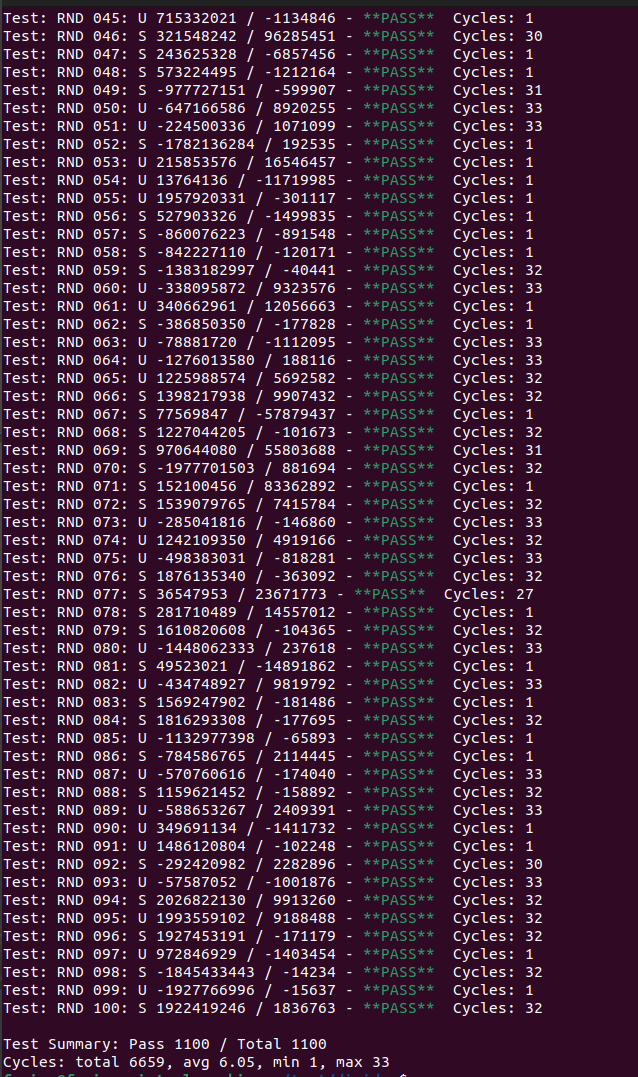
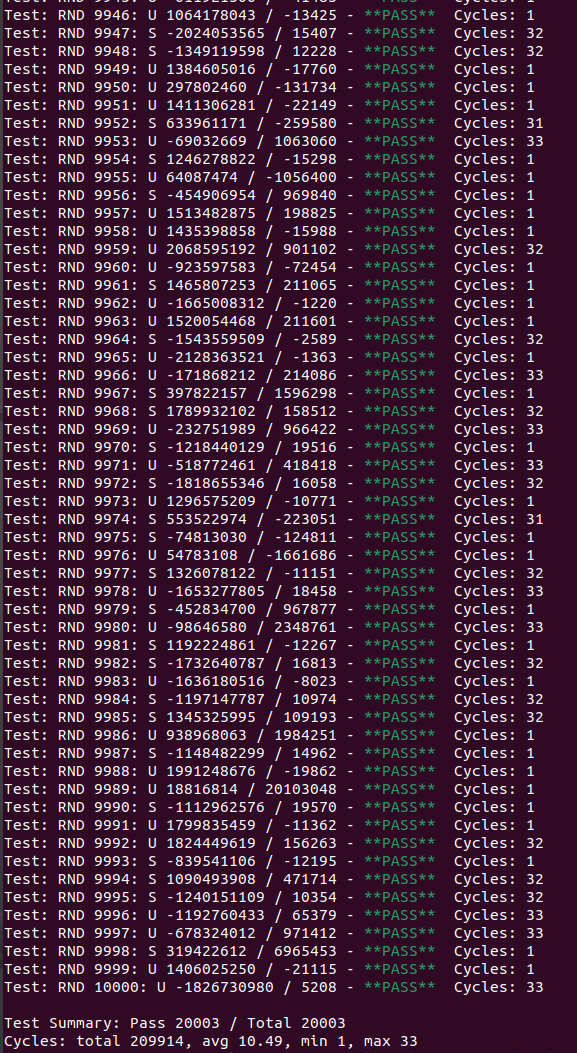
优化除法器，更新早停判断 & 使乘法器可以被综合

diff --git a/npc/oper/divider/divider_main.cpp b/npc/oper/divider/divider_main.cpp
@@ -130,10 +130,15 @@ int main(int argc, char** argv) {
     };
 
     // 插入 1000 个小数字测试，数值上限 200
-    add_small_tests(tests, 1000, 200);
+    add_small_tests(tests, 10000, 200);
+
+    // 添加特殊测试用例，验证有符号除法的边界和符号处理
+    tests.push_back({INT32_MIN, -1, true, INT32_MIN, 0, false, "SPECIAL: S INT32_MIN / -1 (overflow)"});
+    tests.push_back({INT32_MIN, 1,  true, INT32_MIN, 0, true,  "SPECIAL: S INT32_MIN / 1"});
+    tests.push_back({100, 0,    true, -1, 100, false, "SPECIAL: S 100 / 0 (div by zero)"});
 
     // Add random full-range test cases(大数测试)
-    for (int i = 0; i < 1000; ++i) {
+    for (int i = 0; i < 10000; ++i) {
         int32_t a = (std::rand() << 16) | (std::rand() & 0xFFFF);
         int32_t b;
         do {

diff --git a/npc/oper/divider/README.md b/npc/oper/divider/README.md
@@ -8,8 +8,14 @@
 
 从上可看出小数除法计算平均需要6周期左右
 
+**特殊除法计算测试（溢出、除零）**
+
+![](doc/special-divider-test.png)
+
 **大数除法计算测试：**
 
-![](doc/big-divider-test1.png)
+![](doc/big-divider-test.png)
 
-除法器能够支持大数除法计算，且所有随机测试平均执行周期为10.20周期
+除法器能够支持大数除法计算
+
+且所有随机测试(10000小数测试 + 10000大数测试 + 3特殊测试)平均执行周期为10.49周期

diff --git a/npc/oper/booth_wallace_multiplier/README.md b/npc/oper/booth_wallace_multiplier/README.md
@@ -1,5 +1,5 @@
 # 整数乘法器，可以在一个周期内完成输出
 
-驱动时先make clean ， 然后是make run 。查看波形图make wave
+![](doc/test.png)
 
-测试用例写在sim_main.cpp中的run_tests中，包括十个基本测试和边缘测试，以及5000个随机测试用例
+测试用例写在sim_main.cpp中的run_tests中，包括十个基本测试和边缘测试，以及10000个随机测试用例
